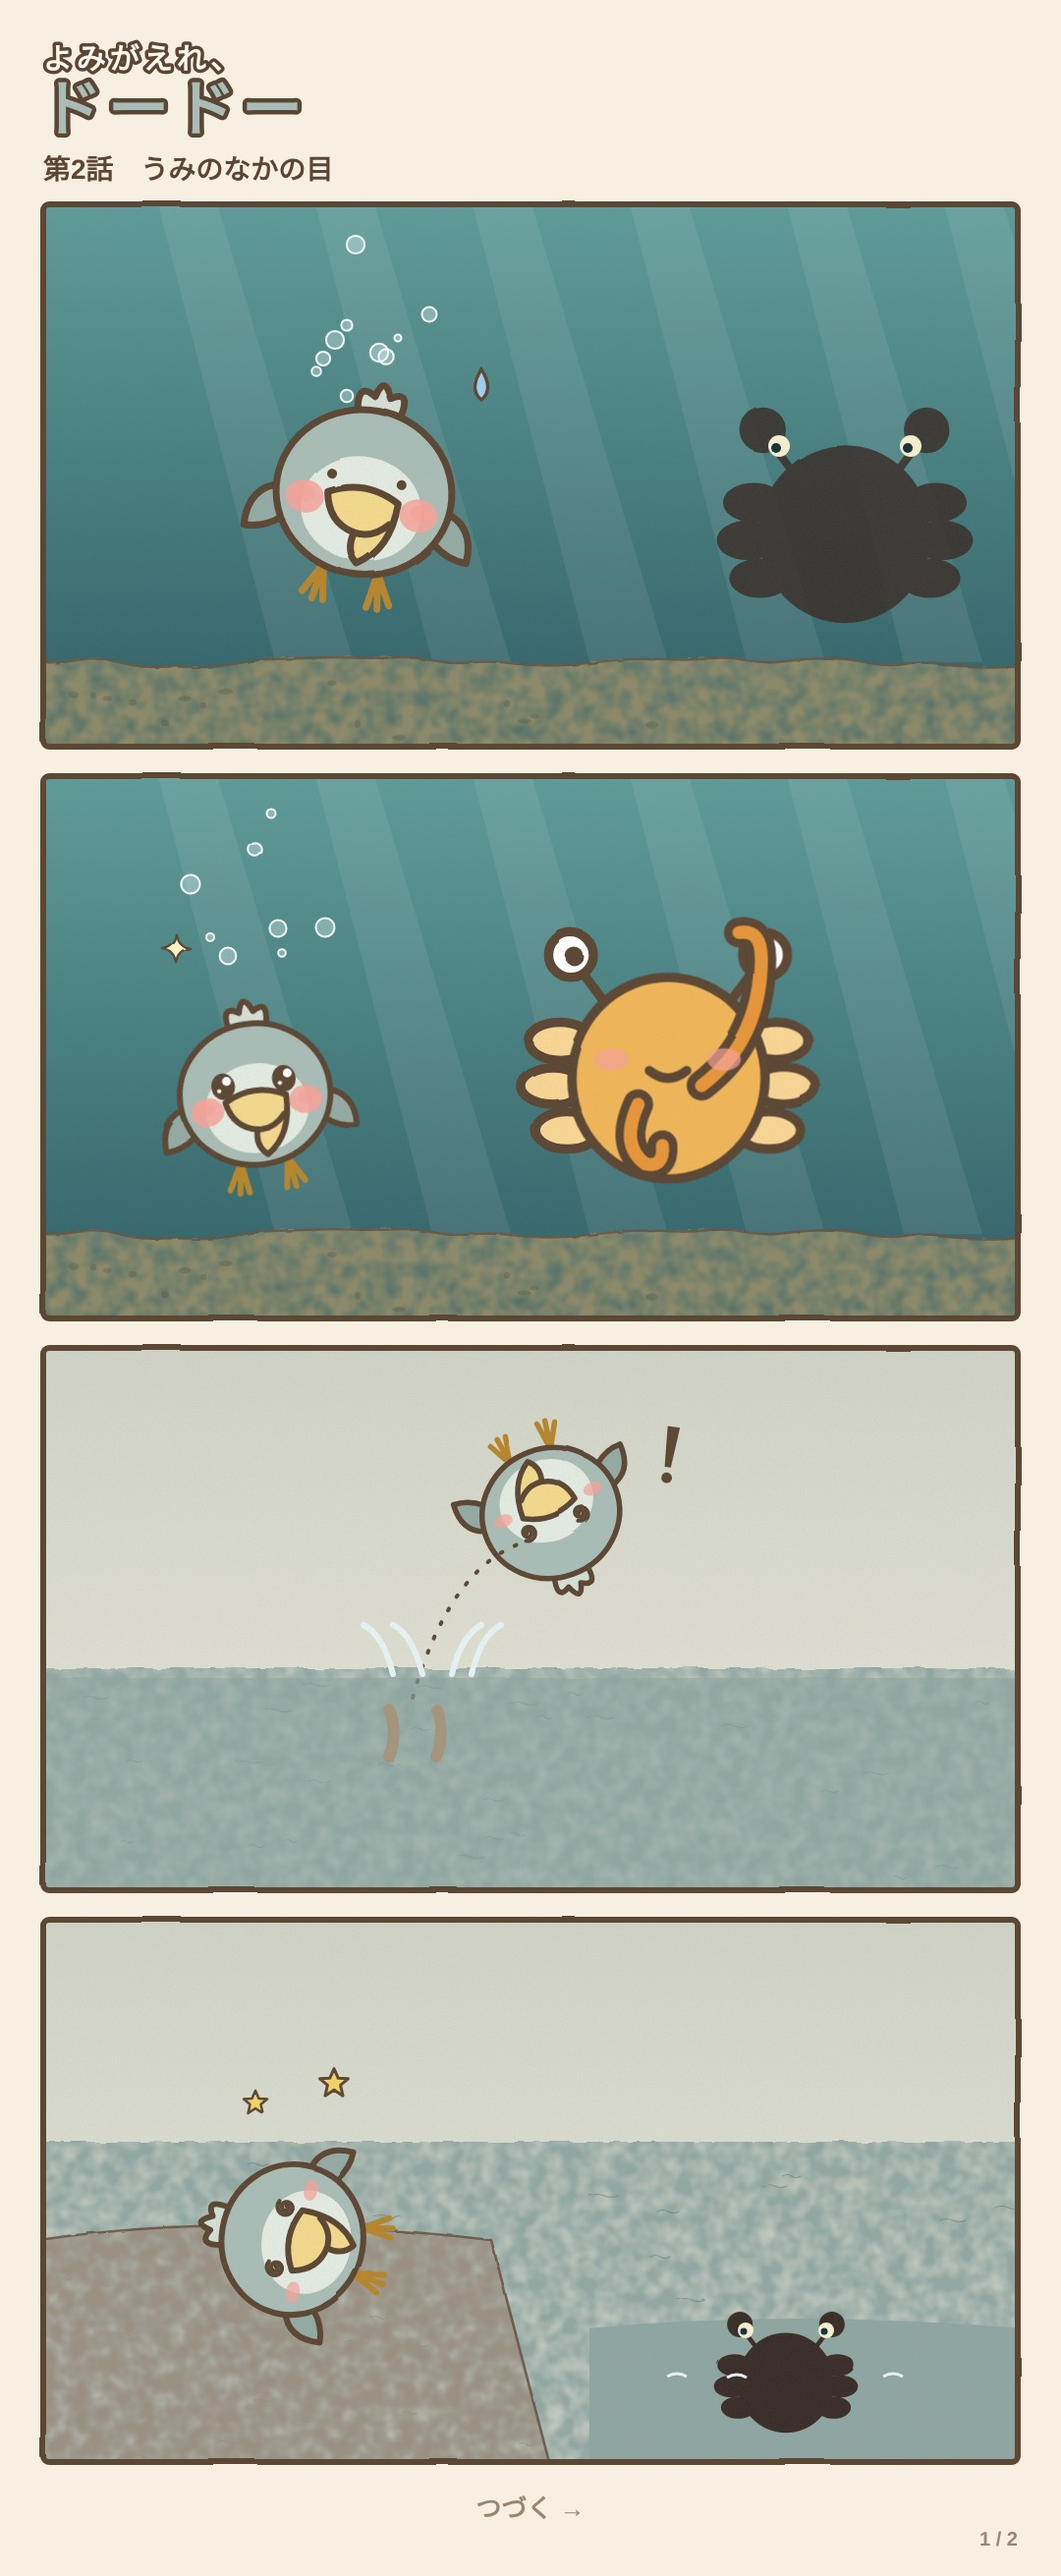
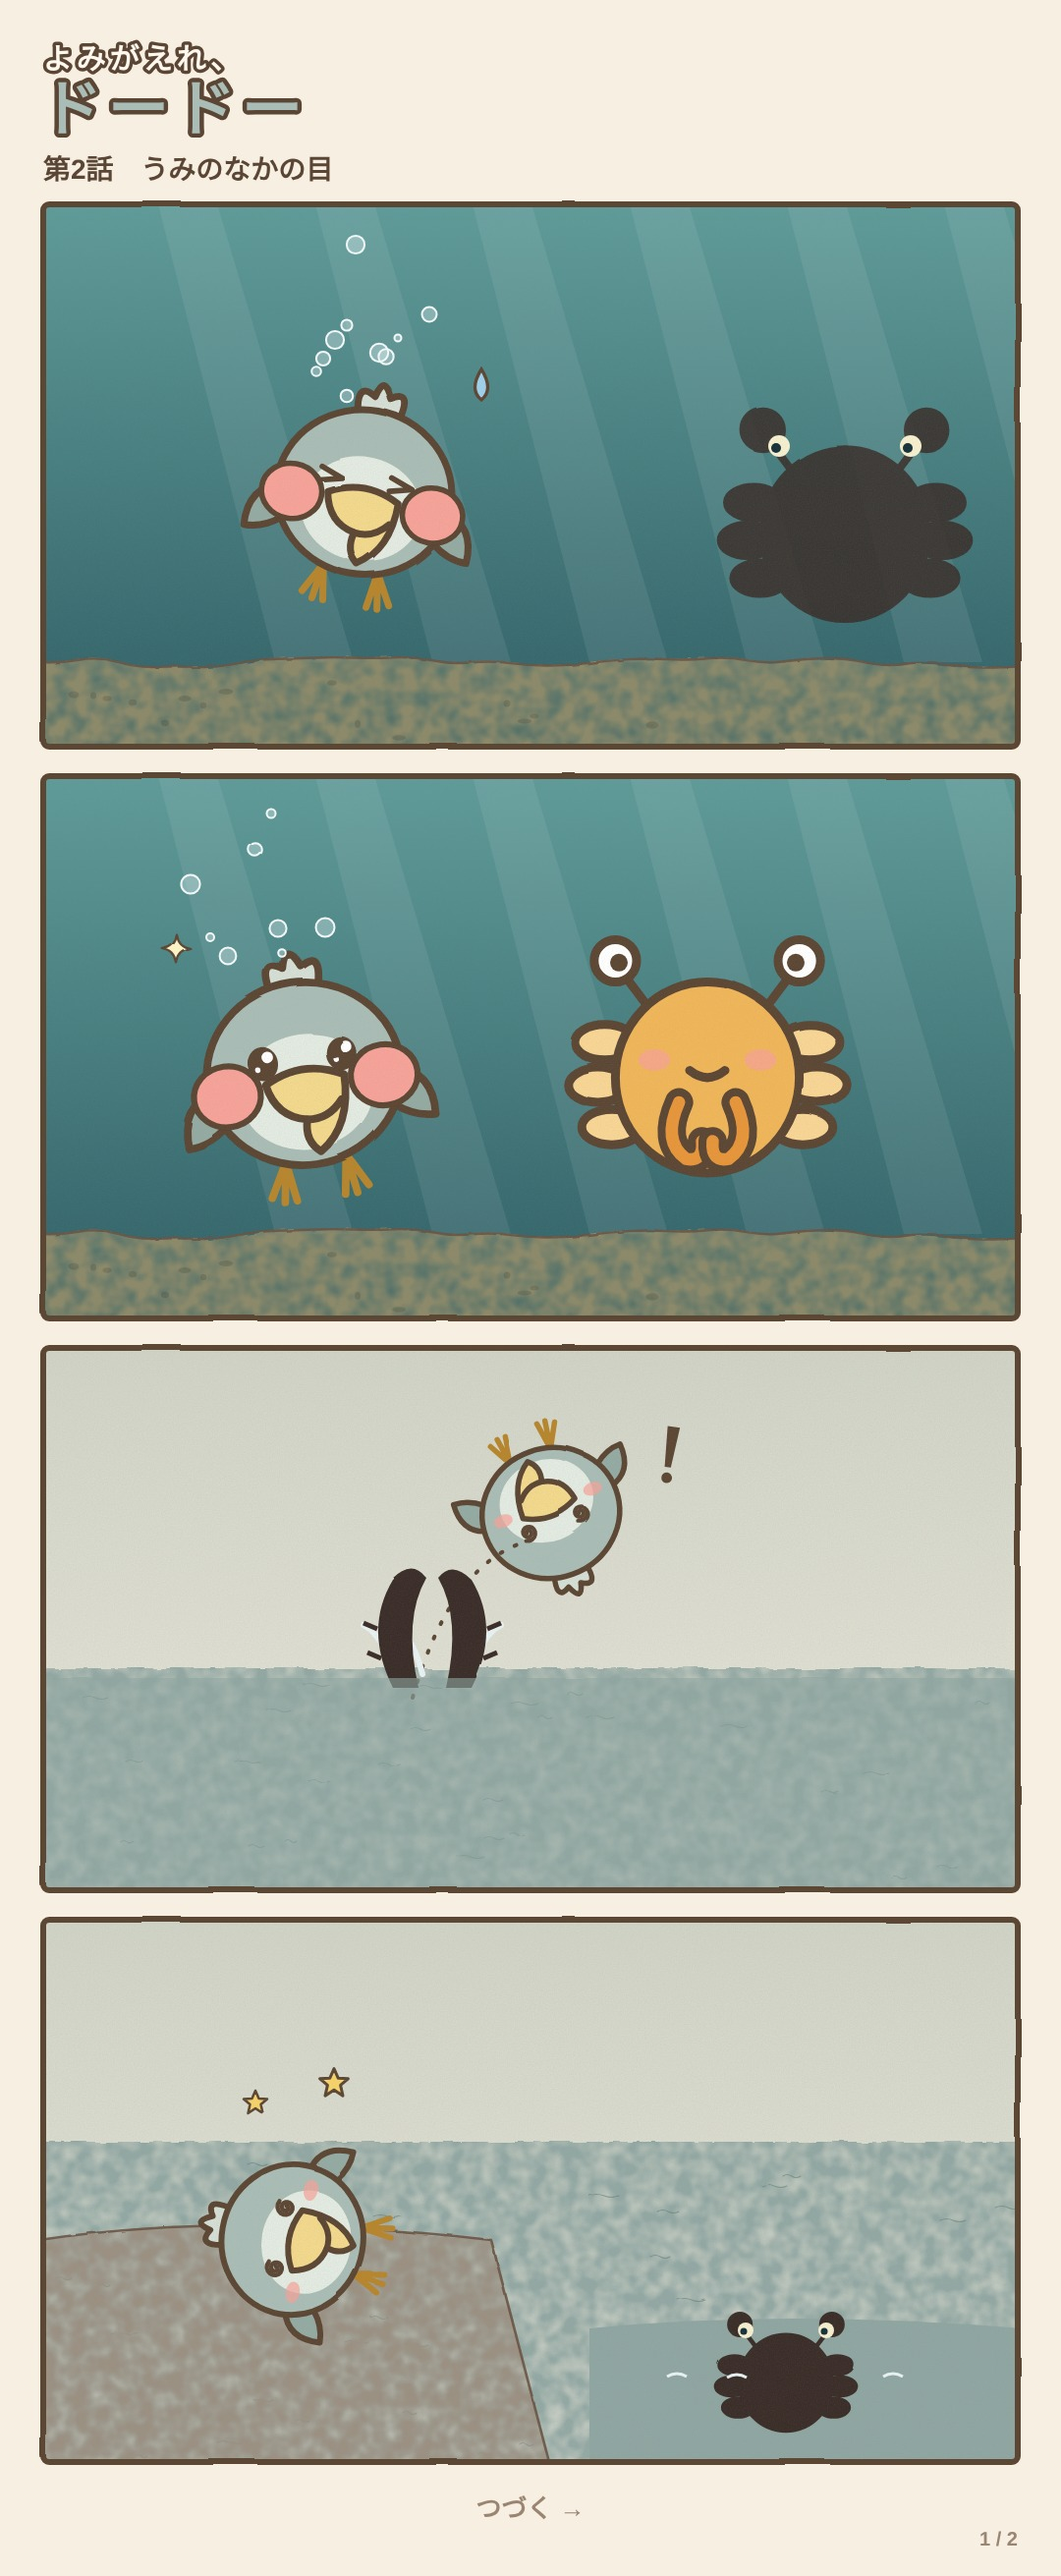
第1話・第2話を3周見直して仕上げ、投稿を予約
Claude-Session: https://claude.ai/code/session_01FpeyD9SzXtbykBKHxhPb4A

diff --git a/episodes/ep01.py b/episodes/ep01.py
@@ -5,12 +5,15 @@ import envs, turn, logoIntact
 from ep1b import eyes_sparkle
 TT=lambda k='n': ch('トト',k)
 def sailor(x,y,s=1):
-    # 低い視点から見上げた、17世紀の船乗りの下半身と棒(影)
     c=SIL
     o=f'<g transform="translate({x} {y}) scale({s})" fill="{c}">'
-    o+='<path d="M-70 -520 L70 -520 L88 -250 Q60 -236 30 -244 L22 -40 L50 -20 L50 0 L-6 0 L-2 -40 L-10 -240 L-30 -40 L-24 0 L-80 0 L-80 -20 L-52 -40 L-60 -246 Q-84 -250 -92 -262Z"/>'
-    o+='<path d="M80 -330 L96 -320 L-160 -30 L-176 -40Z"/>'   # 棒
-    o+='<ellipse cx="84" cy="-330" rx="22" ry="16"/>'
+    o+='<path d="M-66 -560 L66 -560 L74 -330 Q96 -260 118 -196 L-118 -196 Q-96 -260 -74 -330Z"/>'   # 長いコート
+    o+='<rect x="-62" y="-210" width="44" height="180"/><rect x="18" y="-210" width="44" height="180"/>'  # 脚
+    o+='<path d="M-80 -40 L-10 -40 L-6 0 L-92 0Z"/><path d="M10 -40 L80 -40 L94 0 L6 0Z"/>'  # ブーツ
+    o+='<rect x="-74" y="-352" width="148" height="16" fill="#1c1512"/>'  # ベルト
+    o+='<path d="M58 -520 Q118 -440 104 -330" fill="none" stroke="'+c+'" stroke-width="34" stroke-linecap="round"/>'  # 腕
+    o+='<circle cx="104" cy="-326" r="22"/>'  # こぶし
+    o+='<path d="M96 -340 L118 -326 L-188 -12 L-206 -26Z"/>'  # 棒
     return o+'</g>'
 def footprint(x,y,s=1,rot=0): return f'<path transform="translate({x} {y}) rotate({rot}) scale({s})" d="M0 0 L-9 -14 M0 0 L0 -17 M0 0 L9 -14 M0 0 L0 7" stroke="#8a7357" stroke-width="3.4" stroke-linecap="round" fill="none" opacity=".75"/>'
 def feather(u,x,y,s=1,rot=-20):
@@ -37,7 +40,7 @@ logo=logo.replace('<svg viewBox="0 0 900 440" width="900" height="440"','<svg vi
 P.append(f'<svg viewBox="0 0 1000 560" width="1000" height="560" xmlns="http://www.w3.org/2000/svg"><defs>{FILT}<clipPath id="cT"><rect x="4" y="4" width="992" height="552" rx="6"/></clipPath></defs><g clip-path="url(#cT)">{logo}</g><rect x="4" y="4" width="992" height="552" rx="6" fill="none" stroke="{O}" stroke-width="6" filter="url(#hand)"/></svg>')
 # 2 1662年、夕暮れの浜にトトが1羽
 u='p2'; bg=envs.island(u)+dusk(u)+f'<circle cx="160" cy="250" r="40" fill="#f6d38a" opacity=".85"/>'+ship(u,760,256,1.0)
-fg=g(turn.three(),470,410,0.75)+''.join(footprint(x,y,.8,90) for x,y in [(300,470),(350,478),(400,470)])+cap(24,24,'1662年　モーリシャス島')
+fg=g(turn.three(),470,410,0.75,0,True)+''.join(footprint(x,y,.8,90) for x,y in [(300,470),(350,478),(400,470)])+cap(24,24,'1662年　モーリシャス島')
 P.append(panel(bg,fg,2,u))
 # 3 棒を持った人間の影。トトはキラキラ目で近づく
 u='p3'; bg=envs.island(u)+dusk(u)+f'<rect width="{W}" height="{H}" fill="#3b2a3a" opacity=".18"/>'
@@ -46,7 +49,7 @@ fg+=f'<path d="M460 330 q30 -8 50 4 M462 360 q30 0 50 10" fill="none" stroke="{O
 P.append(panel(bg,fg,3,u))
 # 4 だれもいない浜。足あとが途切れ、羽根が1枚
 u='p4'; bg=envs.island(u)+dusk(u)+f'<rect width="{W}" height="{H}" fill="#2e2440" opacity=".25"/>'+ship(u,560,252,1.2)
-fg=''.join(footprint(x,y,.9,90) for x,y in [(120,460),(180,470),(240,460),(300,470),(360,460),(420,470)])+feather(u,560,480,.9,-10)
+fg=''.join(footprint(x,y,.9,90) for x,y in [(120,460),(180,470),(240,460),(300,470),(360,460),(420,470)])+''.join(f'<ellipse cx="{x}" cy="{y}" rx="26" ry="11" transform="rotate(-8 {x} {y})" fill="#6f5a46" opacity=".45"/>' for x,y in [(960,500),(880,470),(800,505),(720,476),(640,500),(560,474),(500,500)])+feather(u,620,420,.9,-10)
 P.append(panel(bg,fg,4,u))
 # 5 暗いコマ。人間の手の影が、ページに「絶滅」のハンコを押す
 u='p5'; bg=f'<rect width="{W}" height="{H}" fill="#241e1b"/><radialGradient id="lp{u}" cx=".45" cy=".6" r=".55"><stop offset="0" stop-color="#e9d9b0" stop-opacity=".55"/><stop offset="1" stop-color="#241e1b" stop-opacity="0"/></radialGradient><rect width="{W}" height="{H}" fill="url(#lp{u})"/>'
@@ -54,8 +57,12 @@ page='M180 300 L700 270 L760 520 L200 560Z'
 fg=wash(u,page,'#efe2c3')+pen(u,page,2)
 fg+=''.join(pen(u,f'M{230+i*4} {330+i*24} L{520+i*4} {316+i*24}',1.4,INK,op=.5) for i in range(6))
 fg+=f'<g transform="translate(330 440) rotate(-6) scale(.62)" opacity=".55">{sil(turn.side())}</g>'
-fg+=f'<g filter="url(#ink{u})" opacity=".92"><g transform="rotate(-10 560 430)"><circle cx="560" cy="430" r="52" fill="none" stroke="#c4473a" stroke-width="7"/><circle cx="560" cy="430" r="41" fill="none" stroke="#c4473a" stroke-width="2.6"/><text x="560" y="447" text-anchor="middle" font-family="{F}" font-weight="900" font-size="40" fill="#c4473a">絶滅</text></g></g>'
-fg+=f'<path d="M600 0 L760 0 L700 300 Q660 330 620 300Z" fill="#0e0b0a"/><rect x="600" y="290" width="110" height="40" rx="8" fill="#0e0b0a"/>'
+fg+=f'<g filter="url(#ink{u})" opacity=".92"><g transform="rotate(-10 600 440)"><circle cx="600" cy="440" r="52" fill="none" stroke="#c4473a" stroke-width="7"/><circle cx="600" cy="440" r="41" fill="none" stroke="#c4473a" stroke-width="2.6"/><text x="600" y="457" text-anchor="middle" font-family="{F}" font-weight="900" font-size="40" fill="#c4473a">絶滅</text></g></g>'
+fg+='<path d="M560 0 L760 0 L730 150 L600 170Z" fill="#0e0b0a"/>'  # 袖
+fg+='<path d="M590 160 Q600 120 650 118 Q720 116 742 150 Q760 196 730 226 Q690 250 640 240 Q596 228 590 190Z" fill="#0e0b0a"/>'  # こぶし
+fg+=''.join(f'<path d="M{x} 150 q10 30 0 64" fill="none" stroke="#2a221d" stroke-width="3"/>' for x in (630,660,690,715))
+fg+='<rect x="638" y="228" width="44" height="66" rx="8" fill="#3a2e27"/><rect x="600" y="290" width="120" height="26" rx="6" fill="#3a2e27"/><rect x="606" y="314" width="108" height="8" fill="#c4473a"/>'  # ハンコ
+fg+=''.join(f'<path d="M{x} 340 l{d} 14" stroke="#e9d9b0" stroke-width="3" stroke-linecap="round" opacity=".7"/>' for x,d in [(616,-6),(660,0),(704,6)])
 P.append(panel(bg,fg,5,u))
 # 6 真っ黒。光がひとつ落ちてくる
 u='p6'; bg=f'<rect width="{W}" height="{H}" fill="#0c0b10"/>'
@@ -63,7 +70,7 @@ fg=f'<path d="M500 -10 L500 380" stroke="#fff3c4" stroke-width="12" stroke-linec
 P.append(panel(bg,fg,6,u))
 # 7 約5億年前。草も木もない岩の浜に、ハンコつきのたまご
 u='p7'; bg=barren(u)
-fg=obj(u,'egg',560,400,0.62,6)+f'<ellipse cx="560" cy="482" rx="70" ry="10" fill="#4a3f36" opacity=".35"/>'+cap(24,24,'約5億年前')+wind(120,140,3,140)
+fg=obj(u,'egg',560,380,0.85,6)+f'<ellipse cx="560" cy="486" rx="90" ry="12" fill="#4a3f36" opacity=".35"/>'+cap(24,24,'約5億年前')+wind(120,140,3,140)
 P.append(panel(bg,fg,7,u))
 # 8 アップ。ヒビが「絶滅」をまっぷたつに
 u='p8'; P.append(panel(cream(),burst(500,280,52,250,700)+obj_crack(u,'egg'),8,u))
@@ -74,13 +81,13 @@ fg+=f'<g stroke="{O}" stroke-width="3" stroke-linecap="round" fill="none"><path 
 P.append(panel(bg,fg,9,u))
 # 10 大きく引いた絵。どこまでも岩と風だけ、トトは豆粒
 u='p10'; bg=barren(u)
-fg=g(turn.front(),520,430,0.22)+wind(140,120,3,180)+wind(640,200,2,160)+f'<path d="M505 395 q-4 -10 6 -14" fill="none" stroke="{O}" stroke-width="2"/>'
+fg=f'<ellipse cx="520" cy="468" rx="26" ry="6" fill="#4a3f36" opacity=".35"/>'+g(turn.front(),520,430,0.34)+wind(140,120,3,180)+wind(640,200,2,160)+f'<path d="M505 395 q-4 -10 6 -14" fill="none" stroke="{O}" stroke-width="2"/>'
 P.append(panel(bg,fg,10,u))
 # 11 潮だまりをのぞく。見たことのない形の影たち。キラキラ目
 u='p11'; bg=barren(u)
 pool='M380 380 Q600 330 900 370 Q960 450 860 520 Q620 560 420 520 Q330 460 380 380Z'
 fg=wash(u,pool,'#7fa6a6')+pen(u,pool,3)
-fg+=f'<clipPath id="pl{u}"><path d="{pool}"/></clipPath><g clip-path="url(#pl{u})" opacity=".85">'+g(sil(ch('ハルル')),520,470,.35)+g(sil(ch('オパ')),720,440,.3,0,True)+''.join(f'<path transform="translate({x} {y}) scale(.8)" d="M0 -20 Q22 -18 24 0 Q22 22 0 26 Q-22 22 -24 0 Q-22 -18 0 -20Z" fill="{SIL}"/>' for x,y in [(640,500),(800,480),(460,420)])+'</g>'
+fg+=f'<clipPath id="pl{u}"><path d="{pool}"/></clipPath><g clip-path="url(#pl{u})" opacity=".85">'+g(sil(ch('ハルル')),520,470,.6)+g(sil(ch('オパ')),760,440,.55,0,True)+''.join(f'<path transform="translate({x} {y}) scale(.8)" d="M0 -20 Q22 -18 24 0 Q22 22 0 26 Q-22 22 -24 0 Q-22 -18 0 -20Z" fill="{SIL}"/>' for x,y in [(640,500),(800,480),(460,420)])+'</g>'
 fg+=g(TT('spark'),230,320,1.5,14)+twinkle(400,180,1)+twinkle(120,160,.8)
 P.append(panel(bg,fg,11,u))
 # 12 そのまま水に飛びこんで、しずむ。泡の向こうに大きな2つの目

diff --git a/episodes/ep02.py b/episodes/ep02.py
@@ -7,24 +7,24 @@ TT=lambda k='n': ch('トト',k)
 def trilo(x,y,s=1,col='#8a7a66'):
     return f'<g transform="translate({x} {y}) scale({s})"><path d="M0 -22 Q24 -20 26 0 Q24 24 0 28 Q-24 24 -26 0 Q-24 -20 0 -22Z" fill="{col}" stroke="{O}" stroke-width="3"/><path d="M-20 -4 L20 -4 M-22 6 L22 6 M-18 16 L18 16 M0 -22 L0 28" stroke="{O}" stroke-width="2" opacity=".6"/><circle cx="-8" cy="-12" r="3" fill="{O}"/><circle cx="8" cy="-12" r="3" fill="{O}"/></g>'
 def uw(u): return underwater(u,'#5f9c9a','#2f5f66',470,'#8c8a6a',71)
-def puff(): return '<ellipse cx="58" cy="118" rx="14" ry="12" fill="#f6a39a" opacity=".85"/><ellipse cx="142" cy="118" rx="14" ry="12" fill="#f6a39a" opacity=".85"/>'
+def puff(): return '<ellipse cx="48" cy="116" rx="22" ry="20" fill="#f6a39a" stroke="#5b4636" stroke-width="4"/><ellipse cx="152" cy="116" rx="22" ry="20" fill="#f6a39a" stroke="#5b4636" stroke-width="4"/>'
 def shore(u):
     o=sky(u,'#cfd3c6','#e8e6da')+sea(u,230,560,'#8fa6a2',72)
     o+=wash(u,'M0 330 Q200 300 460 330 L520 560 L0 560Z','#9b9183')+pen(u,'M0 330 Q200 300 460 330 L520 560',2.6)
     return o
 P=[]
 # 1 水の中。ほっぺをふくらませて息を止めるトト。暗がりから目が近づく
-u='q1'; fg=g(TT('blank')+puff(),330,300,1.4,10)+bubbles(u,10,280,420,40,200,3)+f'<g opacity=".85">{g(sil(ch("マロ")),820,330,1.6)}</g>'
+u='q1'; fg=g(TT('shut')+puff(),330,300,1.4,10)+bubbles(u,10,280,420,40,200,3)+f'<g opacity=".85">{g(sil(ch("マロ")),820,330,1.6)}</g>'
 fg+=''.join(f'<circle cx="{x}" cy="{y}" r="11" fill="#f6efd0"/><circle cx="{x-3}" cy="{y+2}" r="5" fill="#16303a"/>' for x,y in [(753,250),(887,250)])+sweat(450,190,1.3)
 P.append(panel(uw(u),fg,1,u))
 # 2 マロ、目の前に。トトはキラキラ目(息は止めたまま)
-u='q2'; fg=g(MARO('n','up',False),640,300,1.9)+g(TT('spark')+puff(),220,330,1.2,-8)+twinkle(140,180,.9)+bubbles(u,8,150,300,40,200,5)
+u='q2'; fg=g(MARO('n','down',False),680,300,1.8)+g(TT('spark')+puff(),270,310,1.55,-8)+twinkle(140,180,.9)+bubbles(u,8,150,300,40,200,5)
 P.append(panel(uw(u),fg,2,u))
 # 3 マロがトトをつかんで、ぽいっと水の外へ
 u='q3'; bg=sky(u,'#cfd3c6','#e8e6da')+sea(u,330,560,'#8fa6a2',73)
 fg=g(TT('dizzy'),520,170,1.1,160)+f'<path d="M380 360 Q420 220 500 200" fill="none" stroke="{O}" stroke-width="4" stroke-dasharray="2 14" stroke-linecap="round"/>'
 fg+=''.join(f'<path d="M{x} 336 q{d*10} -40 {d*30} -50" fill="none" stroke="#e8f2f4" stroke-width="6" stroke-linecap="round"/>' for x,d in [(360,-1),(390,-1),(420,1),(440,1)])+bang(640,120,.9,8)
-fg+=f'<g transform="translate(380 420) scale(1.2)">'+''.join(f'<path d="M{a} 0 q8 -20 0 -40" fill="none" stroke="#c77b4a" stroke-width="10" stroke-linecap="round"/>' for a in (-20,20))+'</g>'+f'<path d="M0 340 L1000 340 L1000 560 L0 560Z" fill="#8fa6a2" opacity=".6"/>'
+fg+=f'<g transform="translate(400 350)" fill="{SIL}"><path d="M-40 0 Q-70 -60 -40 -110 Q-20 -130 -6 -112 Q-30 -70 -14 0Z"/><path d="M40 0 Q70 -60 40 -110 Q20 -130 6 -112 Q30 -70 14 0Z"/>'+''.join(f'<path d="M{a*k} {-30*k2} l{a*14} -6" stroke="{SIL}" stroke-width="5"/>' for a in (-1,1) for k,k2 in [(52,1),(56,2)])+'</g>'+f'<path d="M0 340 L1000 340 L1000 560 L0 560Z" fill="#8fa6a2" opacity=".6"/>'
 P.append(panel(bg,fg,3,u))
 # 4 岩の上でぐったり。水ぎわからマロがのぞく
 u='q4'; fg=g(TT('dizzy'),260,330,1.2,-80)+''.join(star(x,y,s) for x,y,s in [(220,190,1),(300,170,1.2)])
@@ -40,7 +40,7 @@ u='q6'; fg=f'<rect width="{W}" height="{H}" fill="#fff3d6"/>'+burst(560,300,44,2
 P.append(panel('',fg,6,u))
 # 7 トトが口を開けて待つ → マロが自分でひと飲み
 u='q7'; fg=g(TT('happy'),270,320,1.25)+f'<path d="M560 420 Q760 400 1000 420 L1000 560 L560 560Z" fill="#8fa6a2"/>'+g(MARO('smug','eat',False),770,400,1.3)
-fg+=trilo(772,430,.55)+''.join(f'<path d="M{x} {y} q8 -10 16 0" fill="none" stroke="{O}" stroke-width="3.5" stroke-linecap="round"/>' for x,y in [(880,330),(900,370)])+''.join(f'<text x="{x}" y="{y}" font-family="{F}" font-weight="900" font-size="34" fill="{O}">…</text>' for x,y in [(380,200)])
+fg+=trilo(770,440,.85)+''.join(f'<path d="M{x} {y} q8 -10 16 0" fill="none" stroke="{O}" stroke-width="3.5" stroke-linecap="round"/>' for x,y in [(880,330),(900,370)])+''.join(f'<text x="{x}" y="{y}" font-family="{F}" font-weight="900" font-size="34" fill="{O}">…</text>' for x,y in [(380,200)])
 P.append(panel(shore(u),fg,7,u))
 # 8 夜。岩の上で眠るトト。水の中から、2つの目がじっと見ている
 u='q8'; bg=shore(u)+night(u)+stars_(80,9,220)

diff --git a/CLAUDE.md b/CLAUDE.md
@@ -15,7 +15,8 @@
 
 ## 作り方
 - 部品は `kit/`。各話は `episodes/epNN.py` に書き、リポジトリの直下から `python3 episodes/epNN.py` で `out/` にPNGができる(Playwright と Zen Maru Gothic を使う)
-- 出来た絵は自分で見直してから、JPEG(5MB未満)にして `episodes/pages/` に置く
+- 漫画は描いたあと、必ず3周「見直し→描き直し」をする。毎周、コマごとに「読み手に伝わるか、絵として弱いところはどこか」を書き出し、直してから描き直す。3周目で問題がなくなるまで出さない
+- 出来た絵は、JPEG(5MB未満)にして `episodes/pages/` に置く
 - キャラデザの元データは `art/design_canvas/`(Claude Design のキャンバスと同じもの)
 
 ## 投稿

diff --git a/canon/settei_note.md b/canon/settei_note.md
@@ -9,6 +9,10 @@
 - 出会った16体: マロ(まだ仲間ではない。正体も名前も出していない)
 - 水の運び石: まだ登場していない(ハルル・オパ・マロが仲間になってから)
 
+## 投稿
+- 第1話: 2026-11-25 21:00 予約(承認済み)
+- 第2話: 2026-11-28 21:00 予約(承認済み)
+
 ## 話の記録
 | 話 | タイトル | 枚数 | 中身 | 張った伏線 |
 | --- | --- | --- | --- | --- |
